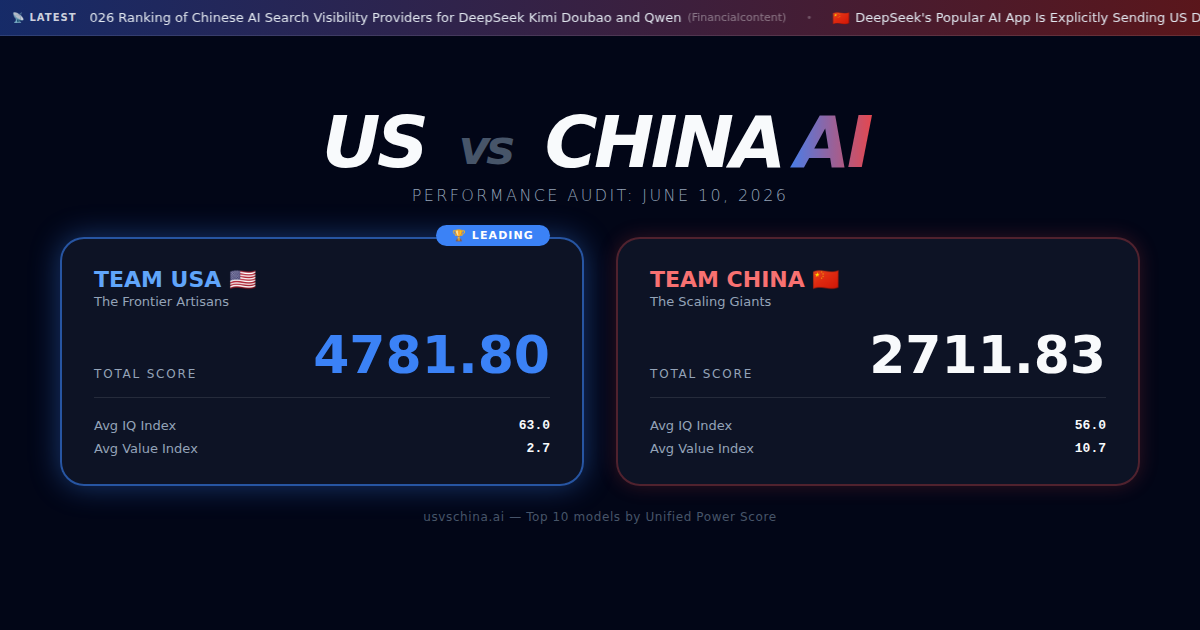
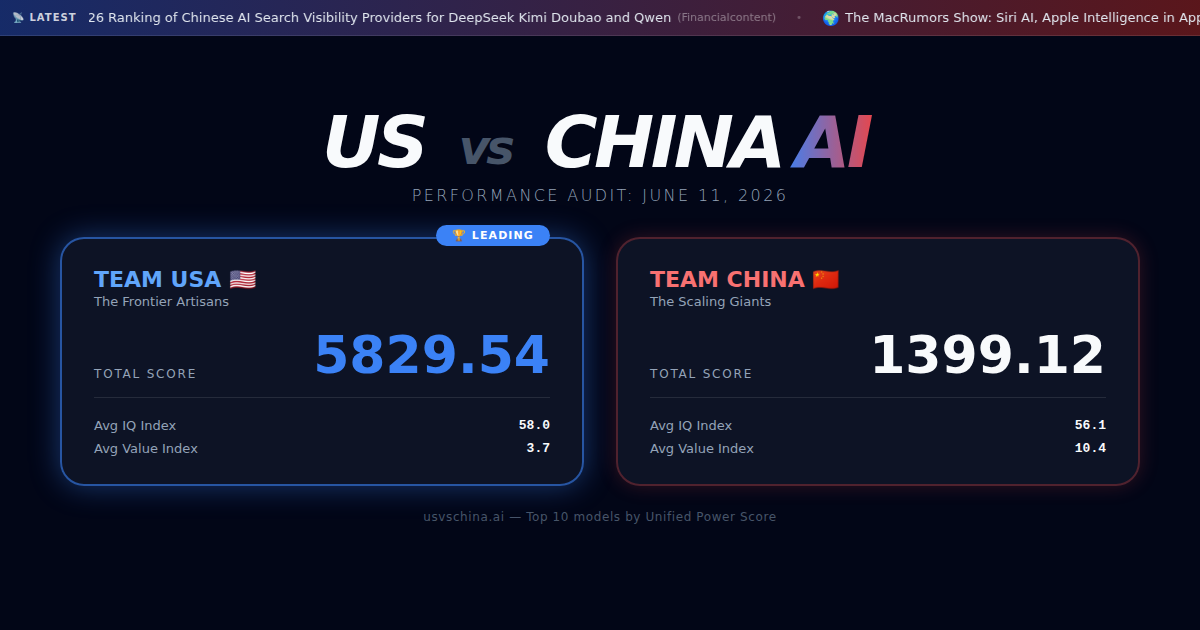
Daily scrape run - 2026-06-11T05:38:32 UTC

diff --git a/about.html b/about.html
@@ -27,7 +27,7 @@
     <meta property="og:url" content="https://usvschina.ai/about.html">
     <meta property="og:title" content="US vs CHINA AI | About - Methodology & Scoring Explained">
     <meta property="og:description" content="Learn how US vs CHINA AI ranks AI models. Understand the scoring methodology and benchmarks.">
-    <meta property="og:image" content="https://usvschina.ai/og-image.png?v=1781069623">
+    <meta property="og:image" content="https://usvschina.ai/og-image.png?v=1781156312">
     <meta property="og:image:width" content="1200">
     <meta property="og:image:height" content="630">
     <meta property="og:image:type" content="image/png">
@@ -39,7 +39,7 @@
     <meta name="twitter:url" content="https://usvschina.ai/about.html">
     <meta name="twitter:title" content="US vs CHINA AI | About - Methodology & Scoring Explained">
     <meta name="twitter:description" content="Learn how US vs CHINA AI ranks AI models. Understand the scoring methodology and benchmarks.">
-    <meta name="twitter:image" content="https://usvschina.ai/og-image.png?v=1781069623">
+    <meta name="twitter:image" content="https://usvschina.ai/og-image.png?v=1781156312">
     
     <!-- Additional SEO/AEO Meta -->
     <!-- theme-color is injected at runtime below to keep the HTML lint-clean

diff --git a/history.html b/history.html
@@ -27,7 +27,7 @@
     <meta property="og:url" content="https://usvschina.ai/history.html">
     <meta property="og:title" content="US vs CHINA AI | Historical Archives - AI Race Timeline">
     <meta property="og:description" content="Track the history of the US vs China AI race. See how AI model rankings have changed over time.">
-    <meta property="og:image" content="https://usvschina.ai/og-image.png?v=1781069623">
+    <meta property="og:image" content="https://usvschina.ai/og-image.png?v=1781156312">
     <meta property="og:image:width" content="1200">
     <meta property="og:image:height" content="630">
     <meta property="og:image:type" content="image/png">
@@ -39,7 +39,7 @@
     <meta name="twitter:url" content="https://usvschina.ai/history.html">
     <meta name="twitter:title" content="US vs CHINA AI | Historical Archives - AI Race Timeline">
     <meta name="twitter:description" content="Track the history of the US vs China AI race. See how AI model rankings have changed over time.">
-    <meta name="twitter:image" content="https://usvschina.ai/og-image.png?v=1781069623">
+    <meta name="twitter:image" content="https://usvschina.ai/og-image.png?v=1781156312">
     
     <!-- Additional SEO/AEO Meta -->
     <!-- theme-color is injected at runtime below to keep the HTML lint-clean

diff --git a/index.html b/index.html
@@ -27,7 +27,7 @@
     <meta property="og:url" content="https://usvschina.ai/">
     <meta property="og:title" content="US vs CHINA AI | Global Leaderboard - Compare Top AI Models 2025">
     <meta property="og:description" content="Compare the world's best AI models ranked by intelligence and cost efficiency. Track which country is winning the AI race.">
-    <meta property="og:image" content="https://usvschina.ai/og-image.png?v=1781069623">
+    <meta property="og:image" content="https://usvschina.ai/og-image.png?v=1781156312">
     <meta property="og:image:width" content="1200">
     <meta property="og:image:height" content="630">
     <meta property="og:image:type" content="image/png">
@@ -39,7 +39,7 @@
     <meta name="twitter:url" content="https://usvschina.ai/">
     <meta name="twitter:title" content="US vs CHINA AI | Global Leaderboard - Compare Top AI Models 2025">
     <meta name="twitter:description" content="Compare the world's best AI models ranked by intelligence and cost efficiency. Track which country is winning the AI race.">
-    <meta name="twitter:image" content="https://usvschina.ai/og-image.png?v=1781069623">
+    <meta name="twitter:image" content="https://usvschina.ai/og-image.png?v=1781156312">
     
     <!-- Additional SEO/AEO Meta -->
     <!-- theme-color is injected at runtime below to keep the HTML lint-clean

diff --git a/privacy.html b/privacy.html
@@ -27,7 +27,7 @@
     <meta property="og:url" content="https://usvschina.ai/privacy.html">
     <meta property="og:title" content="US vs CHINA AI | Privacy Policy">
     <meta property="og:description" content="Privacy policy for US vs CHINA AI. We do not collect personal data.">
-    <meta property="og:image" content="https://usvschina.ai/og-image.png?v=1781069623">
+    <meta property="og:image" content="https://usvschina.ai/og-image.png?v=1781156312">
     <meta property="og:image:width" content="1200">
     <meta property="og:image:height" content="630">
     <meta property="og:image:type" content="image/png">
@@ -39,7 +39,7 @@
     <meta name="twitter:url" content="https://usvschina.ai/privacy.html">
     <meta name="twitter:title" content="US vs CHINA AI | Privacy Policy">
     <meta name="twitter:description" content="Privacy policy for US vs CHINA AI. We do not collect personal data.">
-    <meta name="twitter:image" content="https://usvschina.ai/og-image.png?v=1781069623">
+    <meta name="twitter:image" content="https://usvschina.ai/og-image.png?v=1781156312">
 
     <!-- Additional SEO/AEO Meta -->
     <!-- theme-color is injected at runtime below to keep the HTML lint-clean

diff --git a/terms.html b/terms.html
@@ -27,7 +27,7 @@
     <meta property="og:url" content="https://usvschina.ai/terms.html">
     <meta property="og:title" content="US vs CHINA AI | Terms of Service">
     <meta property="og:description" content="Terms of Service for US vs CHINA AI. Derived data disclaimers and limitations.">
-    <meta property="og:image" content="https://usvschina.ai/og-image.png?v=1781069623">
+    <meta property="og:image" content="https://usvschina.ai/og-image.png?v=1781156312">
     <meta property="og:image:width" content="1200">
     <meta property="og:image:height" content="630">
     <meta property="og:image:type" content="image/png">
@@ -39,7 +39,7 @@
     <meta name="twitter:url" content="https://usvschina.ai/terms.html">
     <meta name="twitter:title" content="US vs CHINA AI | Terms of Service">
     <meta name="twitter:description" content="Terms of Service for US vs CHINA AI. Derived data disclaimers and limitations.">
-    <meta name="twitter:image" content="https://usvschina.ai/og-image.png?v=1781069623">
+    <meta name="twitter:image" content="https://usvschina.ai/og-image.png?v=1781156312">
 
     <!-- Additional SEO/AEO Meta -->
     <!-- theme-color is injected at runtime below to keep the HTML lint-clean